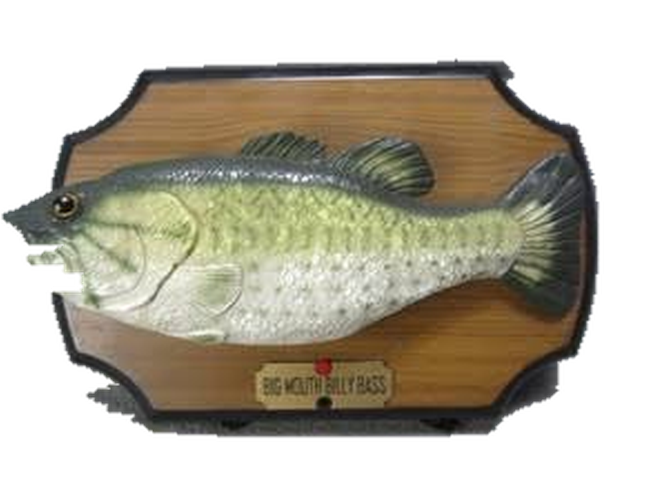
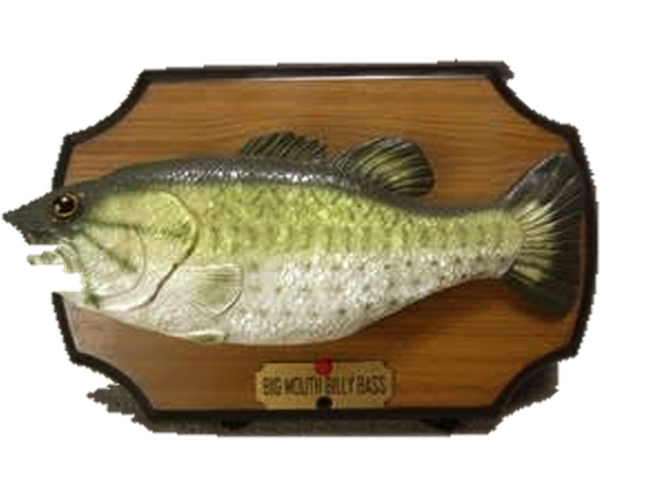
And the two photographs were not the same light
Measured on the wood inside each registered panel, the idle frame's oak sits
at (135, 112, 81) and the talk frame's at (116, 74, 29) — a third of a stop
darker and far warmer — so the PLAQUE changed colour every time he opened his
mouth, which is a flicker whatever the registration does. Both go to the
geometric mean of the two by a per-channel GAMMA rather than a gain: it is
monotonic, it pins black and white, and it cannot clip, where matching the
medians straight would have wanted 2.79x on the talk frame's blue and
flattened the nameplate and the belly to paper. Both woods now read
(125, 91, 48).

diff --git a/tools/billy_frames.py b/tools/billy_frames.py
@@ -25,7 +25,7 @@ both frames are put on one canvas with those panels on top of each other.
 After that the plane never changes shape, nothing moves but the fish, and
 the only difference between the two pictures is the thing the toy does.
 """
-import argparse, os, subprocess, sys
+import argparse, math, os, subprocess, sys
 
 from PIL import Image
 
@@ -64,6 +64,32 @@ def panel_rect(im, frac=0.5):
     return xs[0], ys[0], xs[-1] + 1, ys[-1] + 1
 
 
+def panel_median(im, margin, panel):
+    """The wood's own colour, taken as a MEDIAN over the panel so the fish —
+    which covers a different part of it in each photograph — cannot move it."""
+    p = im.load()
+    px = [p[x, y] for y in range(margin, margin + panel[1], 3)
+          for x in range(margin, margin + panel[0], 3) if p[x, y][3] > 200]
+    return [sorted(c[i] for c in px)[len(px) // 2] for i in range(3)]
+
+
+def regrade(im, src, dst):
+    """Bring `src` to `dst` per channel by a GAMMA and not a gain: it is
+    monotonic, it pins black and white, and it cannot clip. A gain of 2.79 on
+    the talk frame's blue — which is what matching the medians straight would
+    have wanted — flattens the nameplate and the fish's belly to paper."""
+    out = im.copy()
+    for ch in range(3):
+        a, b = max(1, min(254, src[ch])) / 255.0, max(1, min(254, dst[ch])) / 255.0
+        g = math.log(b) / math.log(a)
+        lut = [min(255, max(0, round(255 * pow(v / 255.0, g)))) for v in range(256)]
+        band = out.getchannel('RGB'[ch]).point(lut)
+        bands = list(out.split())
+        bands[ch] = band
+        out = Image.merge('RGBA', bands)
+    return out
+
+
 def main():
     ap = argparse.ArgumentParser()
     ap.add_argument('--panel', type=int, nargs=2, default=[520, 372],
@@ -76,6 +102,7 @@ def main():
     os.makedirs(a.work, exist_ok=True)
     PW, PH = a.panel
     CW, CH = PW + a.margin * 2, PH + a.margin * 2
+    made = {}
 
     for name, (src, args) in CUTS.items():
         cut = os.path.join(a.work, name + '-cut.png')
@@ -95,13 +122,26 @@ def main():
         big = im.resize((max(1, round(im.width * kx)), max(1, round(im.height * ky))), Image.LANCZOS)
         out = Image.new('RGBA', (CW, CH), (0, 0, 0, 0))
         out.alpha_composite(big, (a.margin - round(x0 * kx), a.margin - round(y0 * ky)))
-        dst = os.path.join(ROOT, 'assets', 'billy-%s.png' % name)
-        out.save(dst)
+        made[name] = out
         al = out.split()[3].load()
         edge = (sum(1 for x in range(CW) if al[x, 0] > 20) + sum(1 for x in range(CW) if al[x, CH - 1] > 20)
                 + sum(1 for y in range(CH) if al[0, y] > 20) + sum(1 for y in range(CH) if al[CW - 1, y] > 20))
         print('%-5s  cut %dx%d  panel %d,%d..%d,%d  ->  %dx%d  edge-opaque %d'
               % (name, im.width, im.height, x0, y0, x1, y1, CW, CH, edge))
+
+    # AND THE TWO PHOTOGRAPHS ARE NOT THE SAME LIGHT. Measured on the wood
+    # inside each panel: the idle frame's oak sits at (135, 112, 81) and the
+    # talk frame's at (116, 74, 29) — a third of a stop darker and far
+    # warmer, so the PLAQUE changed colour every time he opened his mouth,
+    # which is a flicker whatever the registration does. Both go to the
+    # geometric mean of the two, which moves each about half way and asks
+    # neither picture to carry the whole correction.
+    meds = {k: panel_median(v, a.margin, a.panel) for k, v in made.items()}
+    tgt = [round((meds['idle'][i] * meds['talk'][i]) ** 0.5) for i in range(3)]
+    for name, im in made.items():
+        g = regrade(im, meds[name], tgt)
+        g.save(os.path.join(ROOT, 'assets', 'billy-%s.png' % name))
+        print('%-5s  wood %s -> %s' % (name, meds[name], panel_median(g, a.margin, a.panel)))
 
 
 if __name__ == '__main__':
